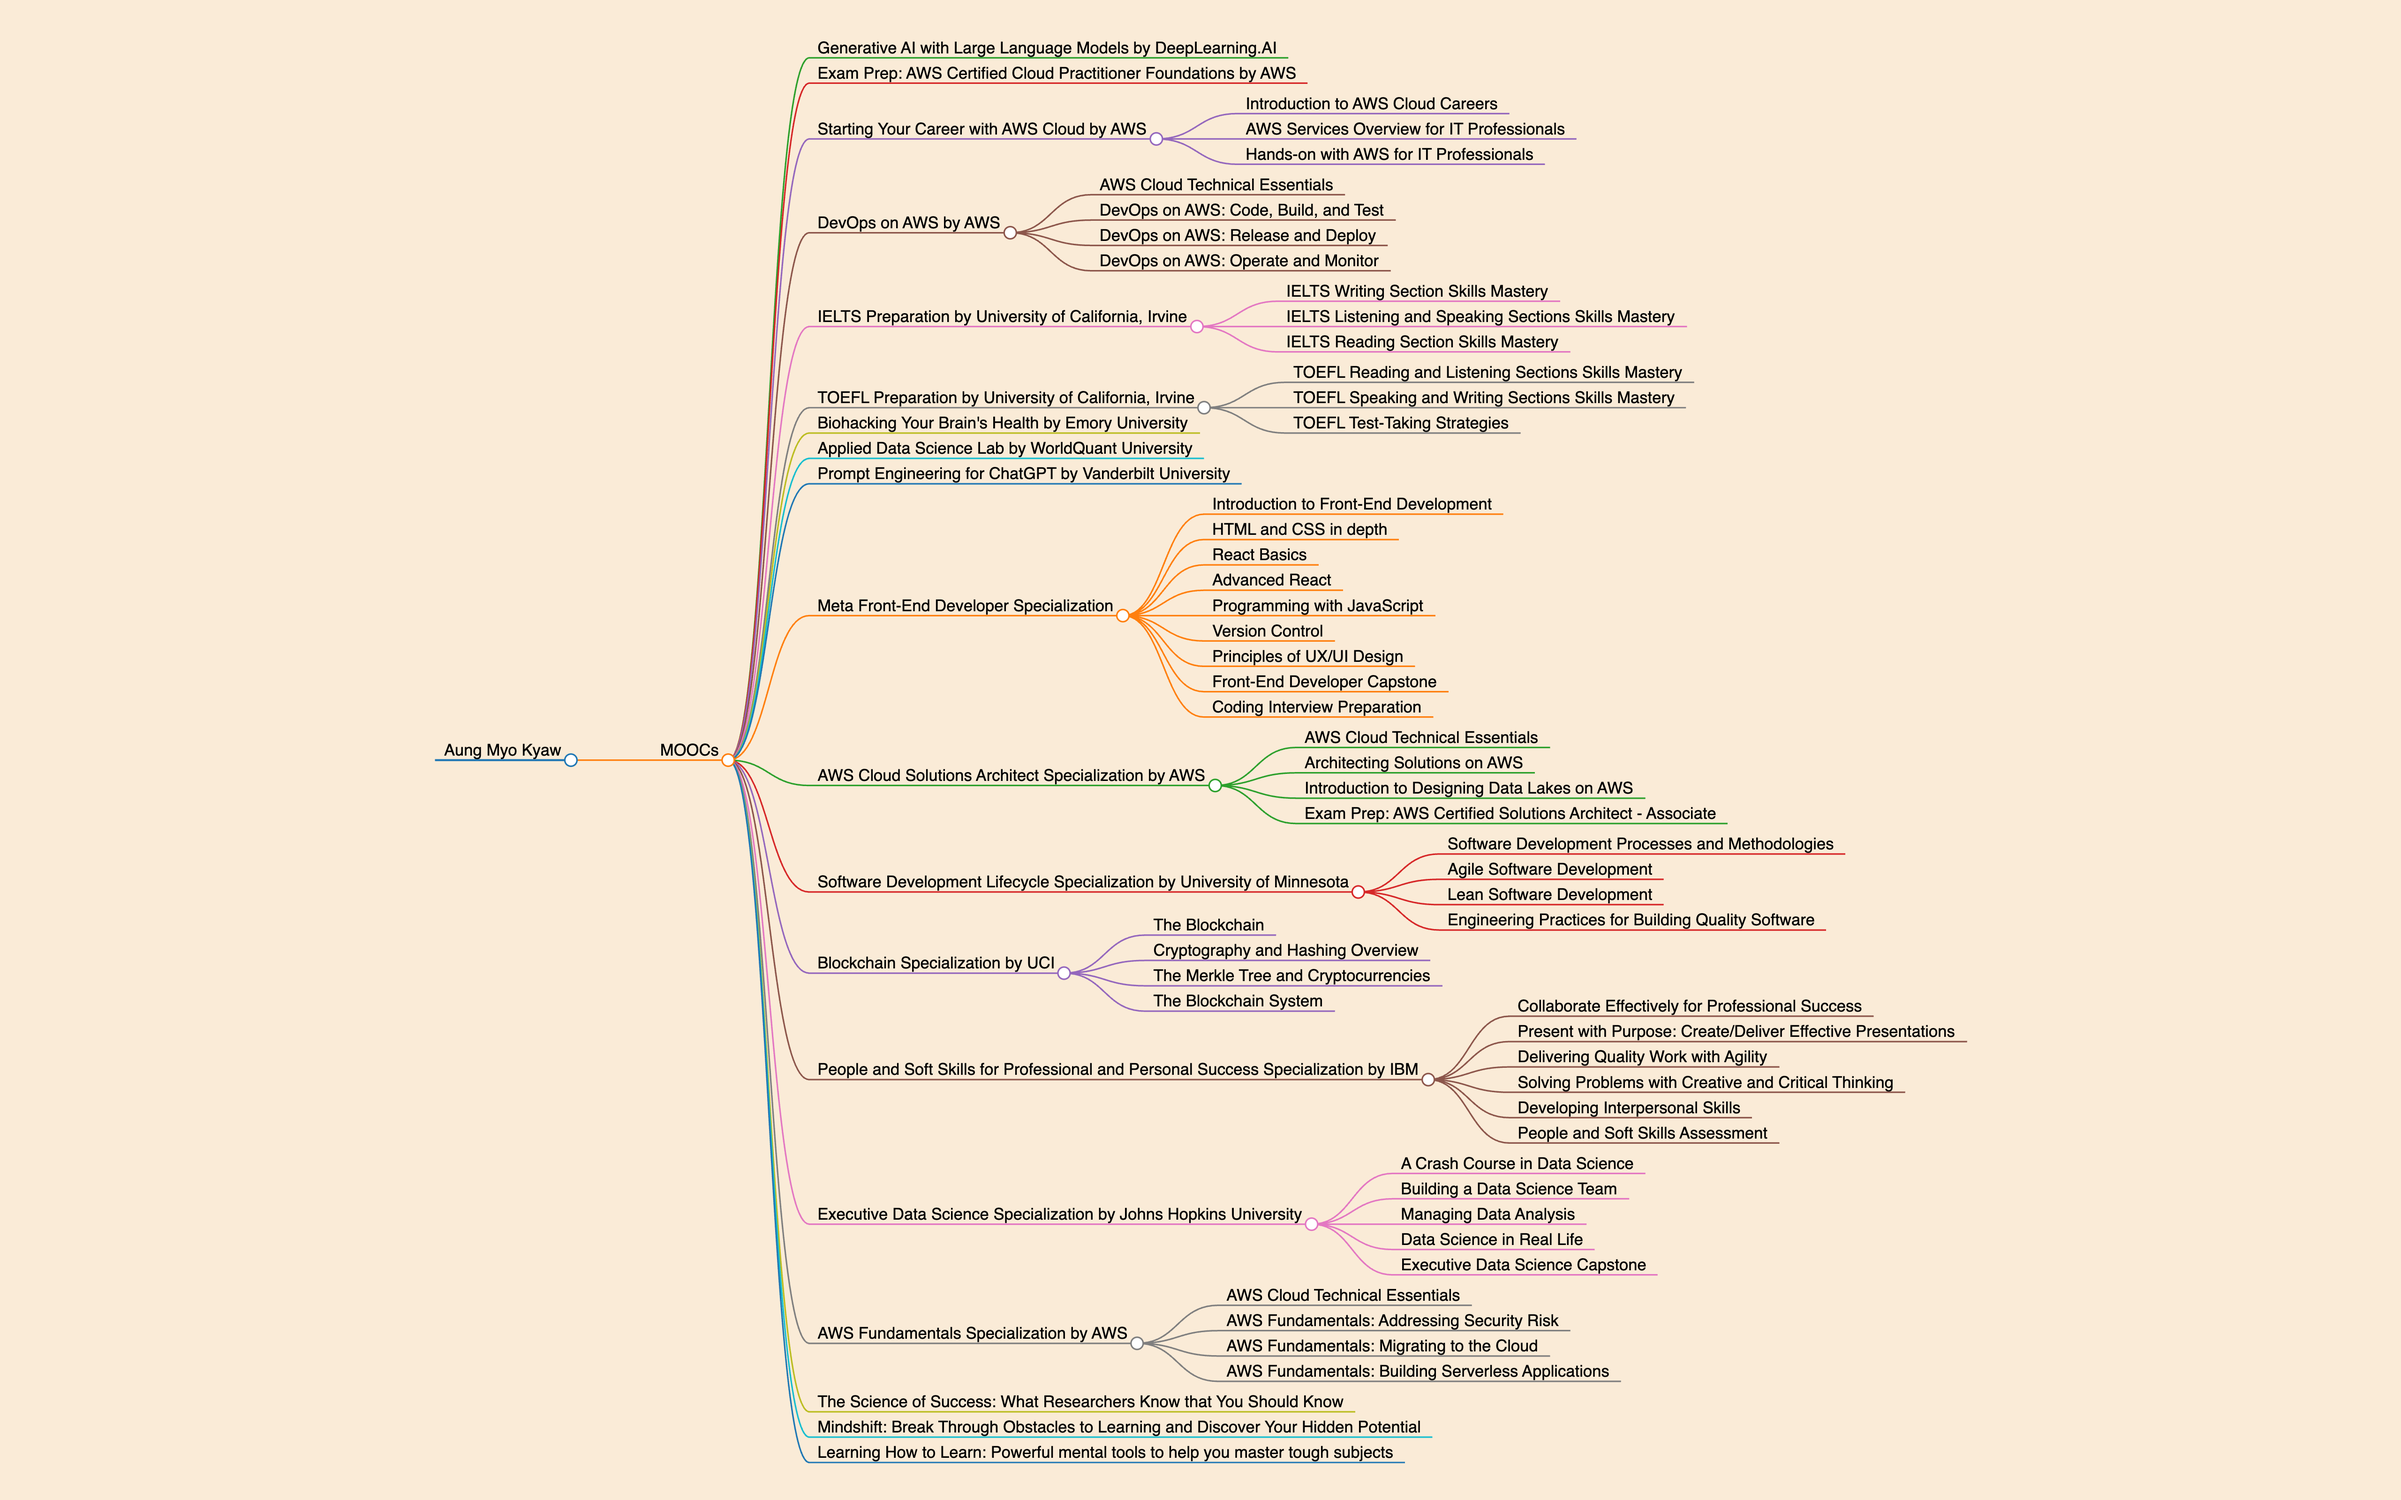
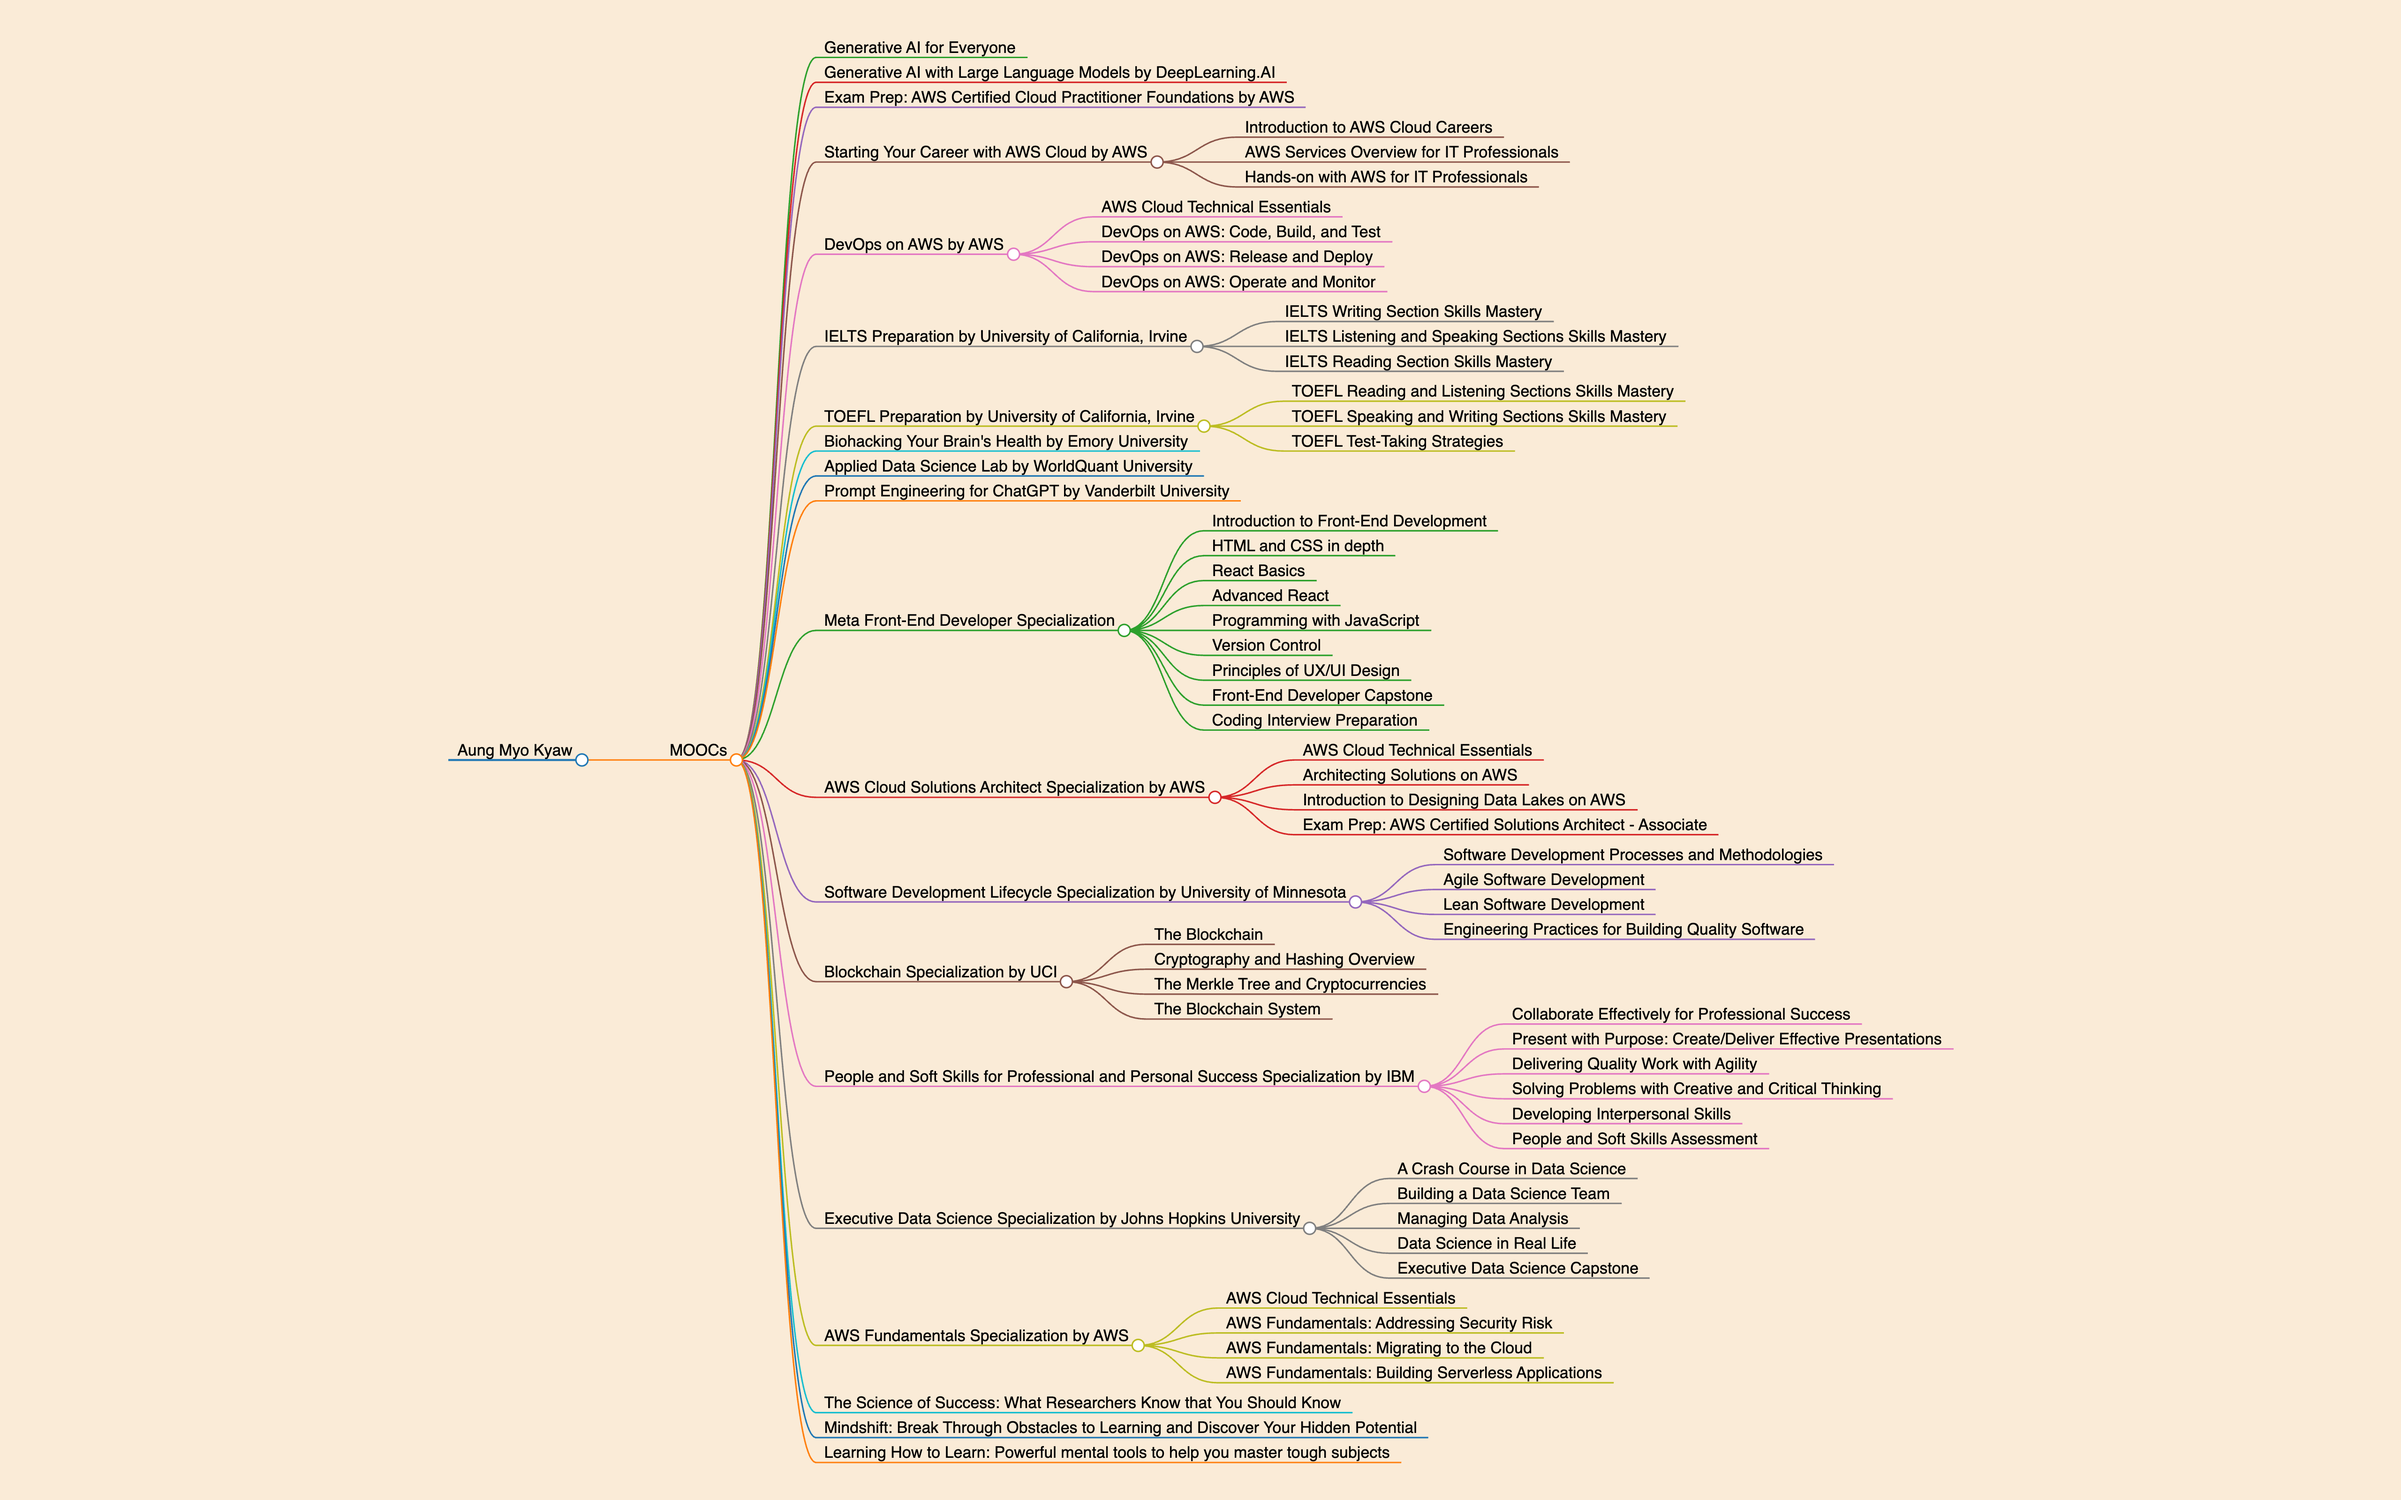
moocs: complete course

Changed region(s): [[0.2812, 0.0312, 0.8125, 1.0], [0.1875, 0.5, 0.25, 0.5312]]

diff --git a/README.md b/README.md
@@ -23,6 +23,8 @@ markmap:
 
 ## [MOOCs](https://moocs.aungmyokyaw.com)
 
+### [Generative AI for Everyone](https://www.coursera.org/account/accomplishments/certificate/Z6QW8NAPQBZA)
+
 ### [Generative AI with Large Language Models by DeepLearning.AI](https://www.coursera.org/account/accomplishments/certificate/4XL2AJ4C3WBF)
 
 ### [Exam Prep: AWS Certified Cloud Practitioner Foundations by AWS](https://www.coursera.org/account/accomplishments/certificate/5L8B7DTJRTJM)
